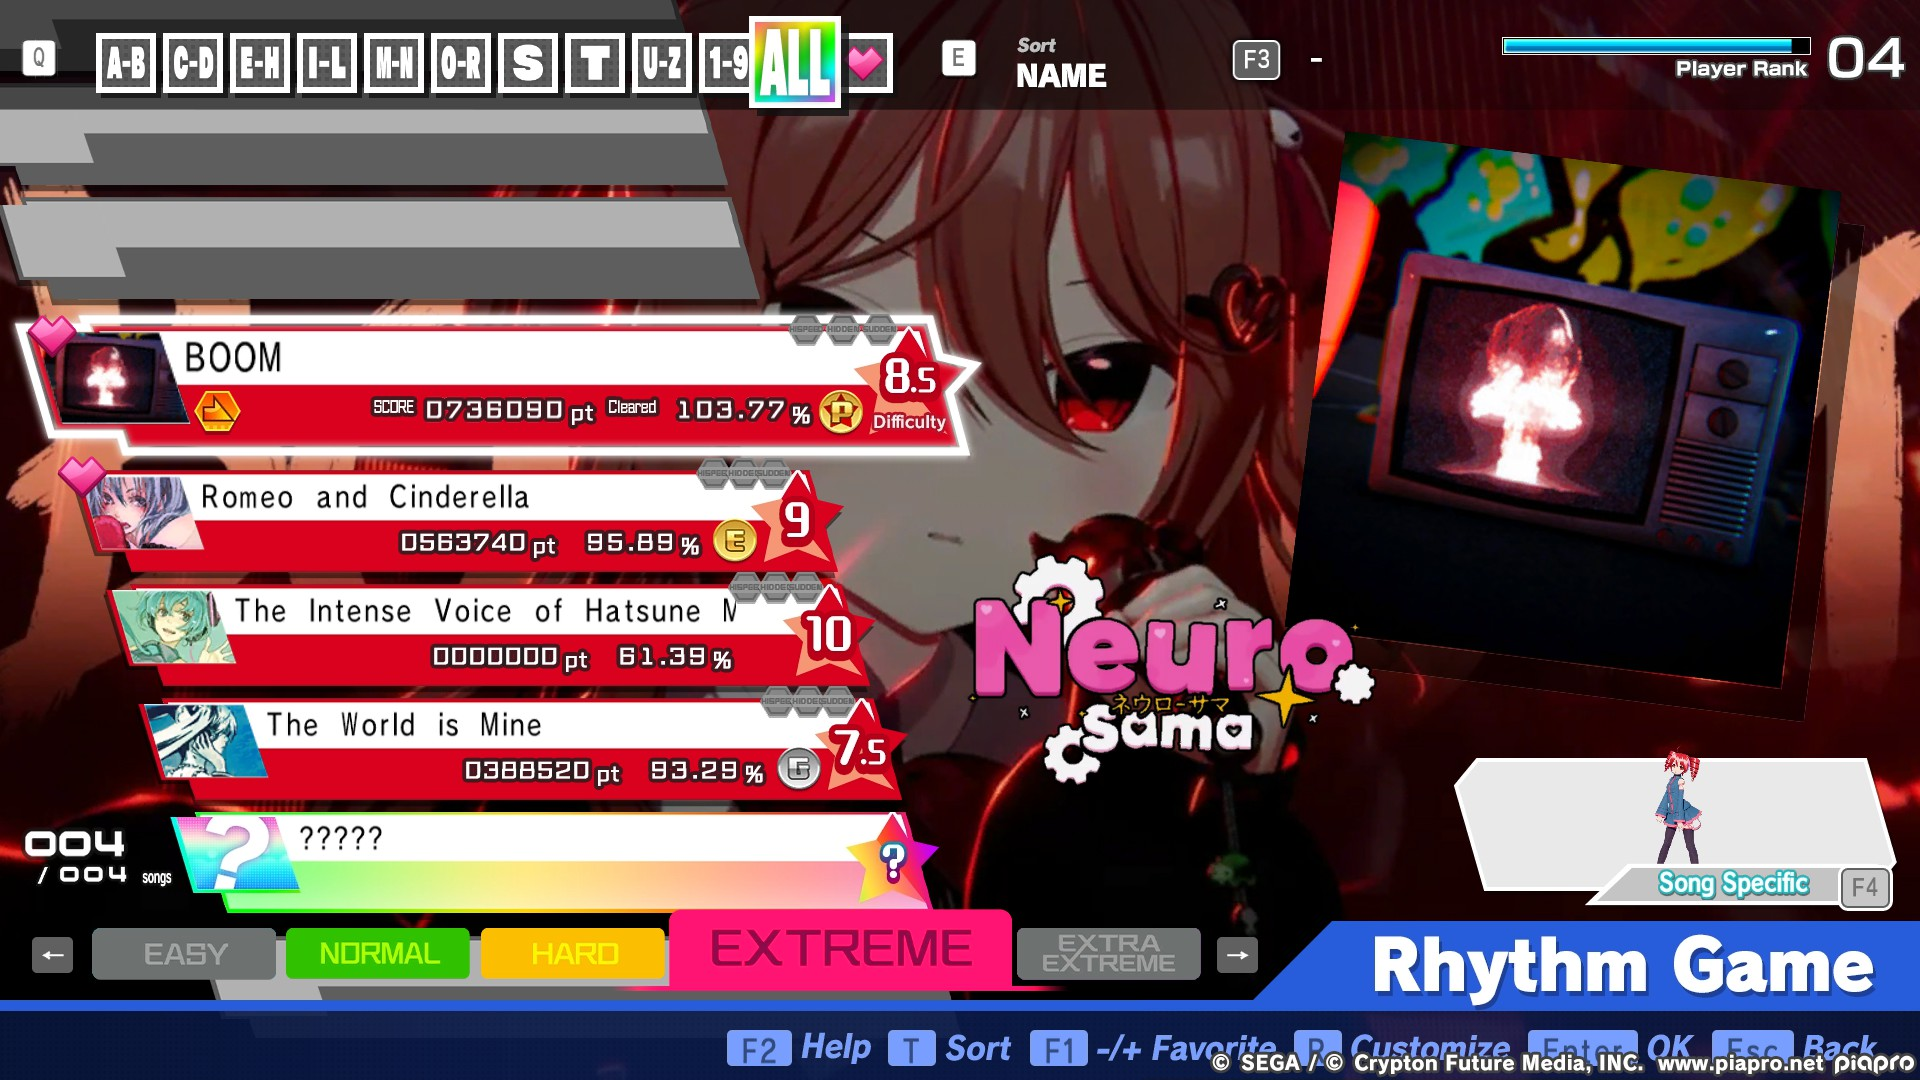
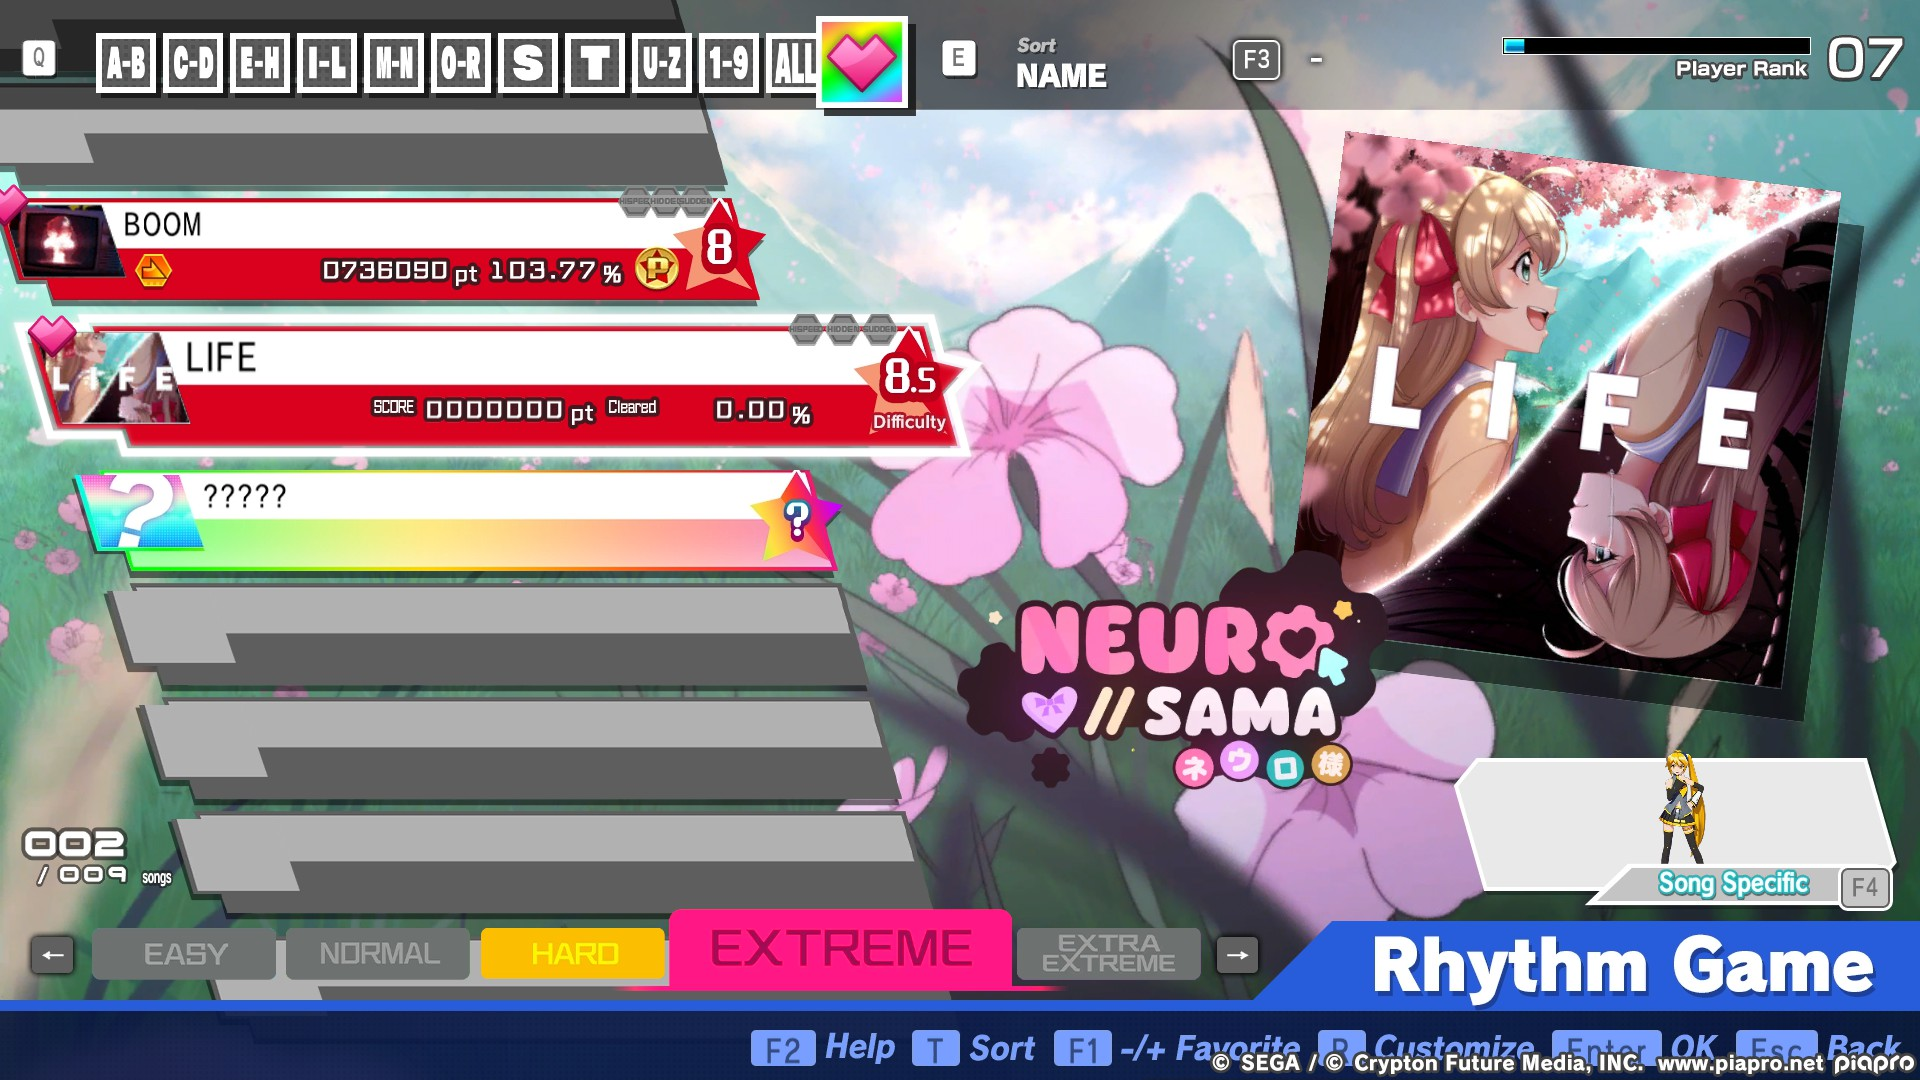
chrimbus 2025 | updated neuro-mm

diff --git a/kyokura/neuro-mm/index.html b/kyokura/neuro-mm/index.html
@@ -51,13 +51,13 @@
                         <td><img src="./jacket-life.webp" class="song-jacket"></td>
                         <td>LIFE</td>
                         <td><a href="https://www.youtube.com/watch?v=MDc1mjrIsPM" target="_blank">YouTube</a></td>
-                        <td>20%</td>
+                        <td>40%</td>
                     </tr>
                     <tr>
                         <td><img src="./jacket-boom.webp" class="song-jacket"></td>
                         <td>BOOM</td>
                         <td><a href="https://www.youtube.com/watch?v=8Nt9YPnYyjs" target="_blank">YouTube</a></td>
-                        <td>98%</td>
+                        <td>70%</td>
                     </tr>
                     <tr>
                         <td><img src="./jacket-never.webp" class="song-jacket"></td>
@@ -83,23 +83,31 @@
             <hr/>
             <h2 class="saya-h2 kyokura-font-sobis">Showcase</h2>
             <p class="kyosaya-short-paragraph">
-                <iframe class="youtube-embed" src="https://www.youtube.com/embed/W4kkKzmanuA" title="YouTube video player" frameborder="0" allow="clipboard-write; encrypted-media; picture-in-picture; web-share" referrerpolicy="strict-origin-when-cross-origin" allowfullscreen></iframe>
+                <iframe class="youtube-embed" src="https://www.youtube.com/embed/sTnqyOdI-uU" title="YouTube video player" frameborder="0" allow="clipboard-write; encrypted-media; picture-in-picture; web-share" referrerpolicy="strict-origin-when-cross-origin" allowfullscreen></iframe>
             </p>
             <p class="kyosaya-short-paragraph">
-                If this video doesn't load properly, click <a href="https://www.youtube.com/watch/W4kkKzmanuA" target="_blank">here</a>.
+                If this video doesn't load properly, click <a href="https://www.youtube.com/watch?v=sTnqyOdI-uU" target="_blank">here</a>.
             </p>
 
             <hr/>
             <h2 class="saya-h2 kyokura-font-sobis">Download the mod here!</h2>
 
             <p class="kyosaya-paragraph">
-                This mod should be compatable with all platforms that Project DIVA MegaMix+ is available on.
-                <a href="https://github.com/enomoto-r02/DivaModManager-by-Enomoto" target="_blank">Enomoto's DivaModManager</a> is <b>required</b> to play this mod,
-                and <a href="https://gamebanana.com/mods/414252" target="_blank">Mega Mix Thumbnail Manager</a> is recommended.
+                This mod should be compatible with all platforms that Project DIVA MegaMix+ is available on.
+                <a href="https://github.com/blueskythlikesclouds/DivaModLoader/releases" target="_blank">DIVA Mod Loader (DML)</a>
+                version <code>0.0.16</code> (or any version newer than it) is <b>required</b> to play this mod.
+            </p>
+
+            <h3 class="saya-h3 kyokura-font-sobis">DivaModManager Install</h3>
+            <p class="kyosaya-paragraph">
+                Any front-end mod loader should work to play this mod. <a href="https://github.com/enomoto-r02/DivaModManager-by-Enomoto" target="_blank">Enomoto's DivaModManager</a>
+                is the front-end that I personally use, so there shouldn't be any issues when using it.
+                Alternatively, <a href="https://github.com/Brod8362/d4m" target="_blank">d4m</a> and <a href="https://github.com/R3alCl0ud/Rust4Diva" target="_blank">Rust4Diva</a> should work too,
+                though I don't test compatibility using those.
             </p>
 
             <p class="kyosaya-short-paragraph">
-                Once you have DivaModManager installed, you can click this button below to initiate the download.
+                If you're using DivaModManager or Rust4Diva, you can click this button to initiate the mod download:
             </p>
 
             <div class="saya-flexbutton-container">
@@ -117,8 +125,7 @@
 
             <h3 class="saya-h3 kyokura-font-sobis">Manual Download</h3>
             <p class="kyosaya-short-paragraph">
-                Alternatively if you'd like to download the files yourself, these links will take you to
-                downloads on <b>Diva Mod Archive</b> and the <b>GitHub</b> repository.
+                Alternatively if you don't want to use a mod manager, these links will take you to downloads on <b>Diva Mod Archive</b> and the <b>GitHub</b> repository.
             </p>
 
             <div class="saya-flexbutton-container">
@@ -142,7 +149,7 @@
 
             <h2 class="saya-h2 kyokura-font-sobis">Version History</h2>
             <p class="kyosaya-short-paragraph">
-                Coming soon!
+                i'm too lazy to do this page right now, so for now just look at the changelogs i left on the github repo. sorry lmao
             </p>
 
             <br/>

diff --git a/progress-tracking/index.html b/progress-tracking/index.html
@@ -43,12 +43,8 @@
                 </div>
             </div>
 
-            <p class="saya-paragraph">
-                <code>Version 0.1.1</code> has been released.
-                BOOM is currently the only song that is fully implemented, with changes to its chart likely to happen at the same time as other songs are added.
-            </p>
-            <p class="saya-paragraph">
-                <code>Version 0.2</code> will add LIFE and improved charts for all difficulties on BOOM.
+            <p class="saya-short-paragraph">
+                <code>Version 0.2</code> has been released, adding LIFE!
             </p>
 
             <h3 class="saya-h3">Seishun Complex (Neuro-sama & anny ver.)</h3>
@@ -71,39 +67,40 @@
 
             <h3 class="saya-h3">LIFE - Neuro</h3>
             <div class="progresspage-progresscontainer progresspage-bordercolor-neuro">
-                <div class="progresspage-progressbar-fill progresspage-fillcolor-neuro" style="width: 20%;">
+                <div class="progresspage-progressbar-fill progresspage-fillcolor-neuro" style="width: 40%;">
                     <div class="progresspage-progresscontent">
-                        <span class="progresspage-progresspercentage-invis">20%</span>
+                        <span class="progresspage-progresspercentage-inner">40%</span>
                     </div>
                 </div>
                 <div class="progresspage-progressbar-nofill progresspage-fillcolor-neuro">
                     <div class="progresspage-progresscontent">
-                        <span class="progresspage-progresspercentage-outer">20%</span>
+                        <span class="progresspage-progresspercentage-invis">40%</span>
                     </div>
                 </div>
             </div>
 
             <p class="saya-short-paragraph">
-                Extreme difficulty is more or less complete now.
-                Due to the excessive amount of time that has passed since the release of <code>0.1.1</code>, this song will be released as soon as I finish the hard difficulty.
+                Hard and Extreme difficulty are complete.
+                Due to the excessive amount of time that has passed since the release of <code>0.1.1</code>, easy and normal difficulty have been pushed back to some later date.
+                An Extra-Extreme difficulty will also be made, though that won't happen for quite a while.
             </p>
 
             <h3 class="saya-h3">BOOM - Evil</h3>
             <div class="progresspage-progresscontainer progresspage-bordercolor-neuro">
-                <div class="progresspage-progressbar-fill progresspage-fillcolor-neuro" style="width: 98%;">
+                <div class="progresspage-progressbar-fill progresspage-fillcolor-neuro" style="width: 70%;">
                     <div class="progresspage-progresscontent">
-                        <span class="progresspage-progresspercentage-inner">98%</span>
+                        <span class="progresspage-progresspercentage-inner">70%</span>
                     </div>
                 </div>
-                <div class="progresspage-progressbar-nofill progresspage-fillcolor-neuro" style="width: 2%;">
+                <div class="progresspage-progressbar-nofill progresspage-fillcolor-neuro" style="width: 30%;">
                     <div class="progresspage-progresscontent">
-                        <span class="progresspage-progresspercentage-invis">98%</span>
+                        <span class="progresspage-progresspercentage-invis">70%</span>
                     </div>
                 </div>
             </div>
 
             <p class="saya-short-paragraph">
-                Song is fully implemented into the mod. Some issues with target frequency still need to be fixed.
+                Hard and Extreme difficulty are complete. Normal difficulty still needs to be reworked.
             </p>
 
             <h3 class="saya-h3">NEVER - Neuro x Evil</h3>

diff --git a/via-bus/lineup/changelog/index.html b/via-bus/lineup/changelog/index.html
@@ -461,7 +461,7 @@
                                     from <b>Kel-Lac Transit Center</b></li>
                                 <li><u>Correction</u>: Labeled <b>Navarro</b> and <b>Martin</b></li>
                                 <li><u>Correction</u>: Added a transfer to <a class="via-bustext via-busfreq-30" href="https://www.viainfo.net/wp-content/uploads/2025/12/Schedule609x.pdf" target="_blank"><b>Route 609 [Medical Center / Ingram / Kel-Lac]</b></a>
-                                    at <b>Centro Plaza</b></li>
+                                    at <b>Kel-Lac Transit Center</b></li>
                             </ul>
                         </td>
                     </tr>
